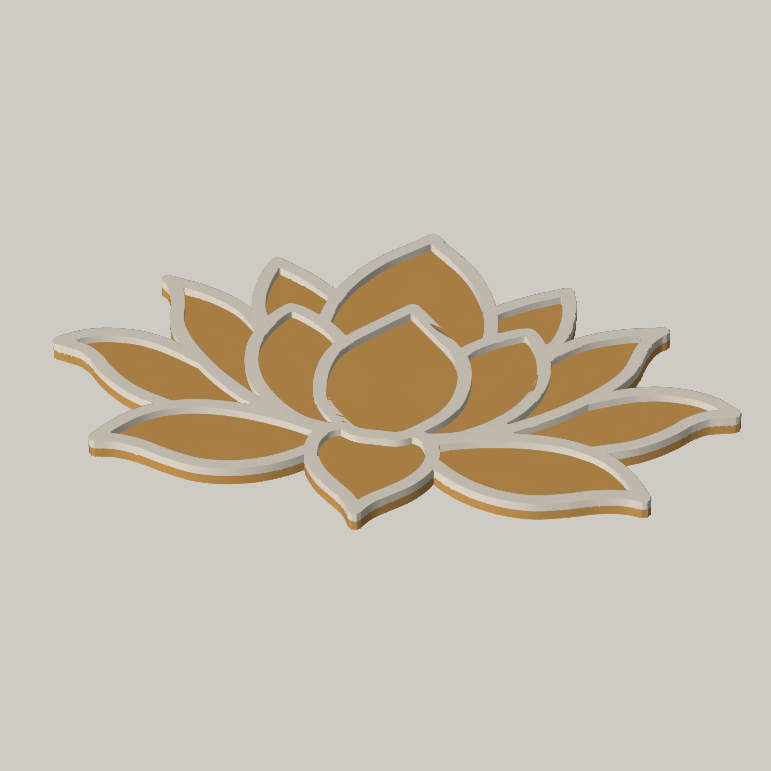
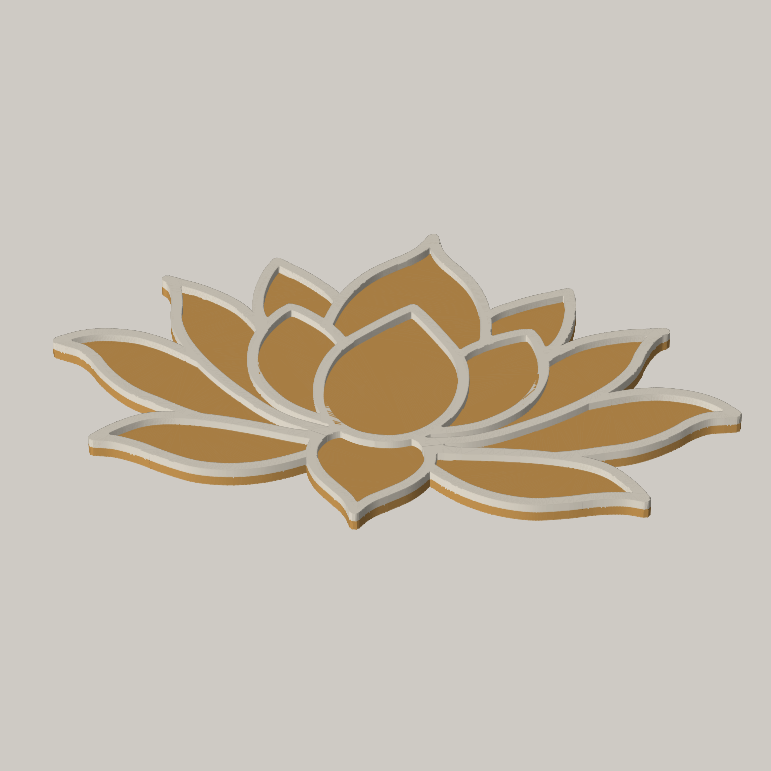
Lotus rangoli board: rounded centre, onion top petal, separated lines, 2.2 mm borders (preview only)
Claude-Session: https://claude.ai/code/session_01HQyouszACcJfNx7ugTWrWT

diff --git a/tools/lotus_rangoli_vector.py b/tools/lotus_rangoli_vector.py
@@ -23,7 +23,7 @@ import lotus_rangoli_board as render   # preview + STL helpers
 WIDTH = 150.0          # overall width
 BASE_T = 2.2           # solid floor thickness
 RIDGE_H = 1.8          # ridge height above the floor
-RIDGE_W = 2.8          # border width
+RIDGE_W = 2.2          # border width
 
 # --- Petals, in reference-image pixels (x right, y down, centre x = 768) -----
 # Each petal: points along one side from base to tip, then the other side from
@@ -39,28 +39,28 @@ LEFT_PETALS = {
                    (465, 235), (475, 196)],
                   [(475, 196), (500, 210), (535, 230), (572, 256), (612, 292), (650, 360),
                    (670, 450), (650, 560)]),
-    "outer_up": ([(710, 712), (650, 697), (590, 681), (540, 656), (490, 621), (440, 581),
-                  (390, 531), (350, 481), (326, 440), (315, 405), (309, 368), (298, 328),
+    "outer_up": ([(720, 718), (660, 705), (600, 690), (548, 664), (500, 630), (450, 590),
+                  (398, 540), (355, 488), (328, 442), (315, 405), (309, 368), (298, 328),
                   (284, 302), (272, 292)],
                  [(272, 292), (300, 299), (342, 310), (390, 330), (432, 356), (466, 390),
-                  (494, 428), (530, 490), (590, 580), (660, 660), (710, 712)]),
-    "inner": ([(735, 704), (680, 700), (620, 686), (575, 656), (540, 621), (511, 580),
-               (491, 531), (483, 481), (486, 440), (496, 400), (513, 363), (530, 340)],
-              [(530, 340), (552, 347), (590, 370), (622, 396), (650, 430), (690, 500),
-               (725, 600), (740, 680), (735, 704)]),
-    "low_side": ([(700, 722), (640, 700), (570, 680), (490, 668), (420, 670), (365, 684),
-                  (322, 707), (290, 737), (265, 770), (245, 805)],
-                 [(245, 805), (285, 801), (335, 810), (390, 830), (450, 845), (510, 842),
-                  (565, 825), (612, 798), (655, 762), (700, 722)]),
+                  (494, 428), (530, 490), (590, 580), (660, 665), (720, 718)]),
+    "inner": ([(720, 690), (680, 680), (625, 664), (580, 642), (545, 612), (515, 575),
+               (495, 530), (486, 481), (488, 440), (498, 400), (514, 363), (530, 340)],
+              [(530, 340), (552, 347), (590, 370), (622, 396), (650, 430), (685, 495),
+               (712, 580), (724, 650), (720, 690)]),
+    "low_side": ([(705, 742), (650, 730), (600, 724), (540, 716), (470, 710), (410, 710),
+                  (360, 716), (322, 730), (292, 752), (266, 778), (245, 805)],
+                 [(245, 805), (285, 803), (335, 814), (390, 834), (450, 849), (510, 847),
+                  (565, 832), (612, 808), (660, 775), (705, 742)]),
 }
 # Centre petals (symmetric about x = CX): left half only, base (on axis) -> tip (on axis).
 CENTER_PETALS = {
-    "rear_top": [(CX, 660), (660, 600), (620, 500), (604, 420), (604, 360), (612, 300),
-                 (630, 245), (655, 195), (686, 150), (720, 114), (748, 86), (CX, 62)],
-    "bottom": [(CX, 705), (745, 698), (718, 688), (690, 692), (668, 708), (655, 735), (653, 765),
-               (663, 800), (686, 836), (716, 866), (742, 890), (757, 910), (CX, 932)],
-    "center": [(CX, 705), (720, 700), (676, 657), (650, 621), (635, 581), (630, 531),
-               (635, 481), (650, 441), (676, 405), (706, 370), (740, 331), (CX, 300)],
+    "rear_top": [(CX, 660), (660, 600), (622, 500), (612, 420), (614, 360), (624, 300),
+                 (642, 248), (668, 202), (700, 165), (730, 135), (750, 108), (760, 85), (CX, 62)],
+    "bottom": [(CX, 715), (748, 706), (722, 696), (696, 698), (674, 712), (660, 738), (656, 768),
+               (665, 802), (686, 836), (716, 866), (742, 890), (757, 910), (CX, 932)],
+    "center": [(CX, 715), (735, 711), (705, 698), (680, 678), (660, 652), (642, 615), (632, 570),
+               (632, 520), (642, 470), (662, 428), (690, 390), (722, 350), (748, 320), (CX, 300)],
 }
 # Back-to-front drawing order.
 ORDER = [("outer_low", "L"), ("outer_low", "R"), ("rear_side", "L"), ("rear_side", "R"),
